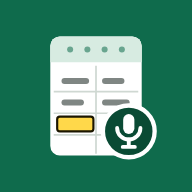
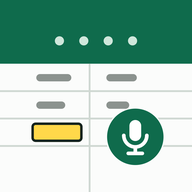
Add files via upload

diff --git a/pro.html b/pro.html
@@ -16,7 +16,7 @@
 <title>声で野帳 Pro</title>
 <link rel="manifest" href="manifest-pro.json">
 <link rel="icon" type="image/png" sizes="32x32" href="pro-favicon-32.png">
-<link rel="apple-touch-icon" href="pro-apple-touch-icon.png?v=2">
+<link rel="apple-touch-icon" href="pro-apple-touch-icon.png?v=3">
 <meta name="apple-mobile-web-app-title" content="声で野帳 Pro">
 <meta name="theme-color" content="#15231d">
 <link rel="preconnect" href="https://fonts.googleapis.com">
@@ -2204,7 +2204,7 @@ let rec=null, listening=false, ttsPause=false, processed=new Set(), wake=null, g
 /* 声の取り消しの間隔：voiceCtx＝処理中の発話の番号（ボタン・手入力は0） */
 let voiceCtx=0, utterSeq=0, lastVoiceUndo=0, undoUtter=-1, undoBlocked=false;
 const ECHO_RE=/^(消しました|けしました|ケシマシタ|まとめて取り消しました|まとめて消しました|聞き取れません|聞き取れませんでした|ききとれません|入力できません|復唱します)$/;
-const APP_VER="Pro 4.8.2（2026-11-05）";
+const APP_VER="Pro 4.8.3（2026-11-10）";
 function makeRec(){
   const r=new SR(); r.lang="ja-JP"; r.interimResults=true; r.maxAlternatives=1;
   r.continuous=(S.mode==="cont");

diff --git a/sw-pro.js b/sw-pro.js
@@ -5,6 +5,7 @@
   入力したデータには触れません（データはアプリがブラウザ内に保存します）。外部へデータを送ることもありません。
   pro.html は保存しておいた版をすぐに出し、電波があれば裏で新しい版を確かめて入れ替えます（次に開いたときから新しい版）。
   入れ替えるのは、版の番号が今より新しいときだけです（公開の直後は、配信元が古い版を返すことがあるため。2026-10-30 修正）。
+  2026-11-10：アイコンを新しくしたので、保存しているアイコンを取り直す（このファイルを変えると取り直しが走る）。
   2026-11-02：アイコンを大きくした（このファイルを変えると、保存しているアイコンとマニフェストを取り直す）。
 */
 const CACHE = "koe-pro-4.0";          // 名前は変えない（変えると保存した本体を消して取り直すため。中身は版の番号で入れ替える）

diff --git a/index.html b/index.html
@@ -9,7 +9,7 @@
 <title>声で野帳</title>
 <link rel="manifest" href="manifest.json">
 <link rel="icon" type="image/png" sizes="32x32" href="favicon-32.png">
-<link rel="apple-touch-icon" href="apple-touch-icon.png">
+<link rel="apple-touch-icon" href="apple-touch-icon.png?v=2">
 <meta name="apple-mobile-web-app-title" content="声で野帳">
 <meta name="theme-color" content="#0f6b4c">
 <link rel="preconnect" href="https://fonts.googleapis.com">
@@ -409,7 +409,7 @@ function handleText(raw, fromVoice, rbNow){
 /* ========= 音声 ========= */
 const SR=window.SpeechRecognition||window.webkitSpeechRecognition;
 let rec=null, listening=false, ttsPause=false, processed=new Set(), wake=null, gestureStart=false;
-const APP_VER="v1.6.1（2026-10-29）";
+const APP_VER="v1.6.2（2026-11-10）";
 function makeRec(){
   const r=new SR(); r.lang="ja-JP"; r.interimResults=true; r.maxAlternatives=1;
   r.continuous=(S.mode==="cont");
